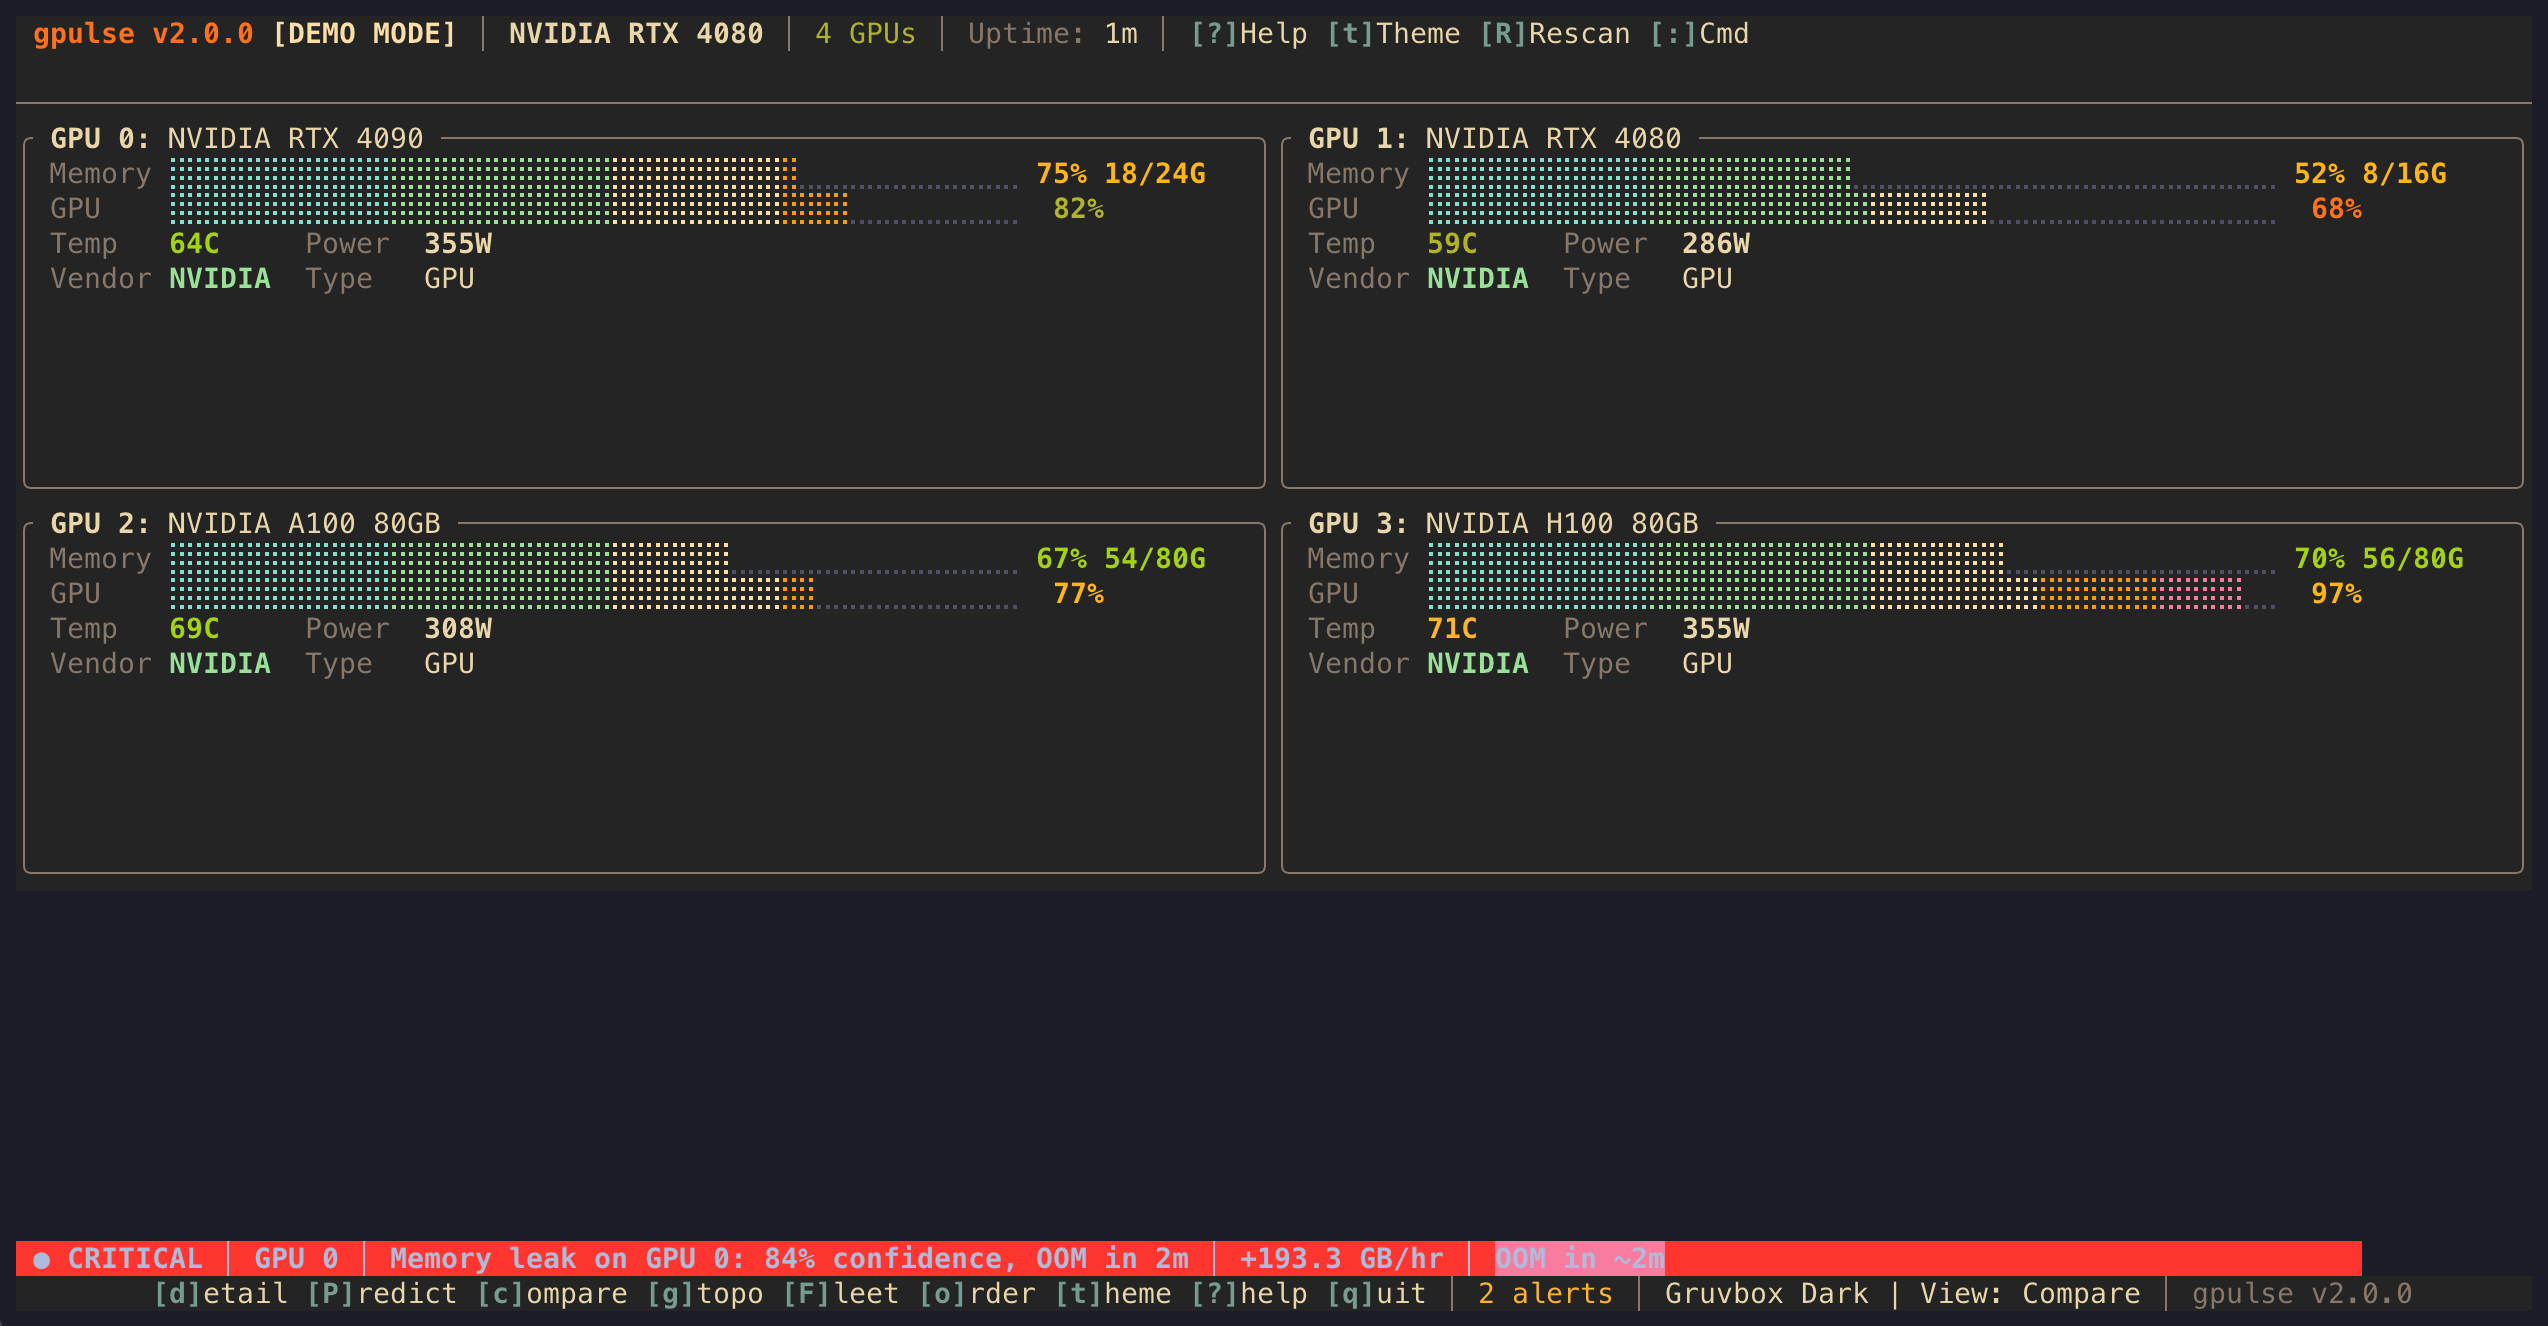
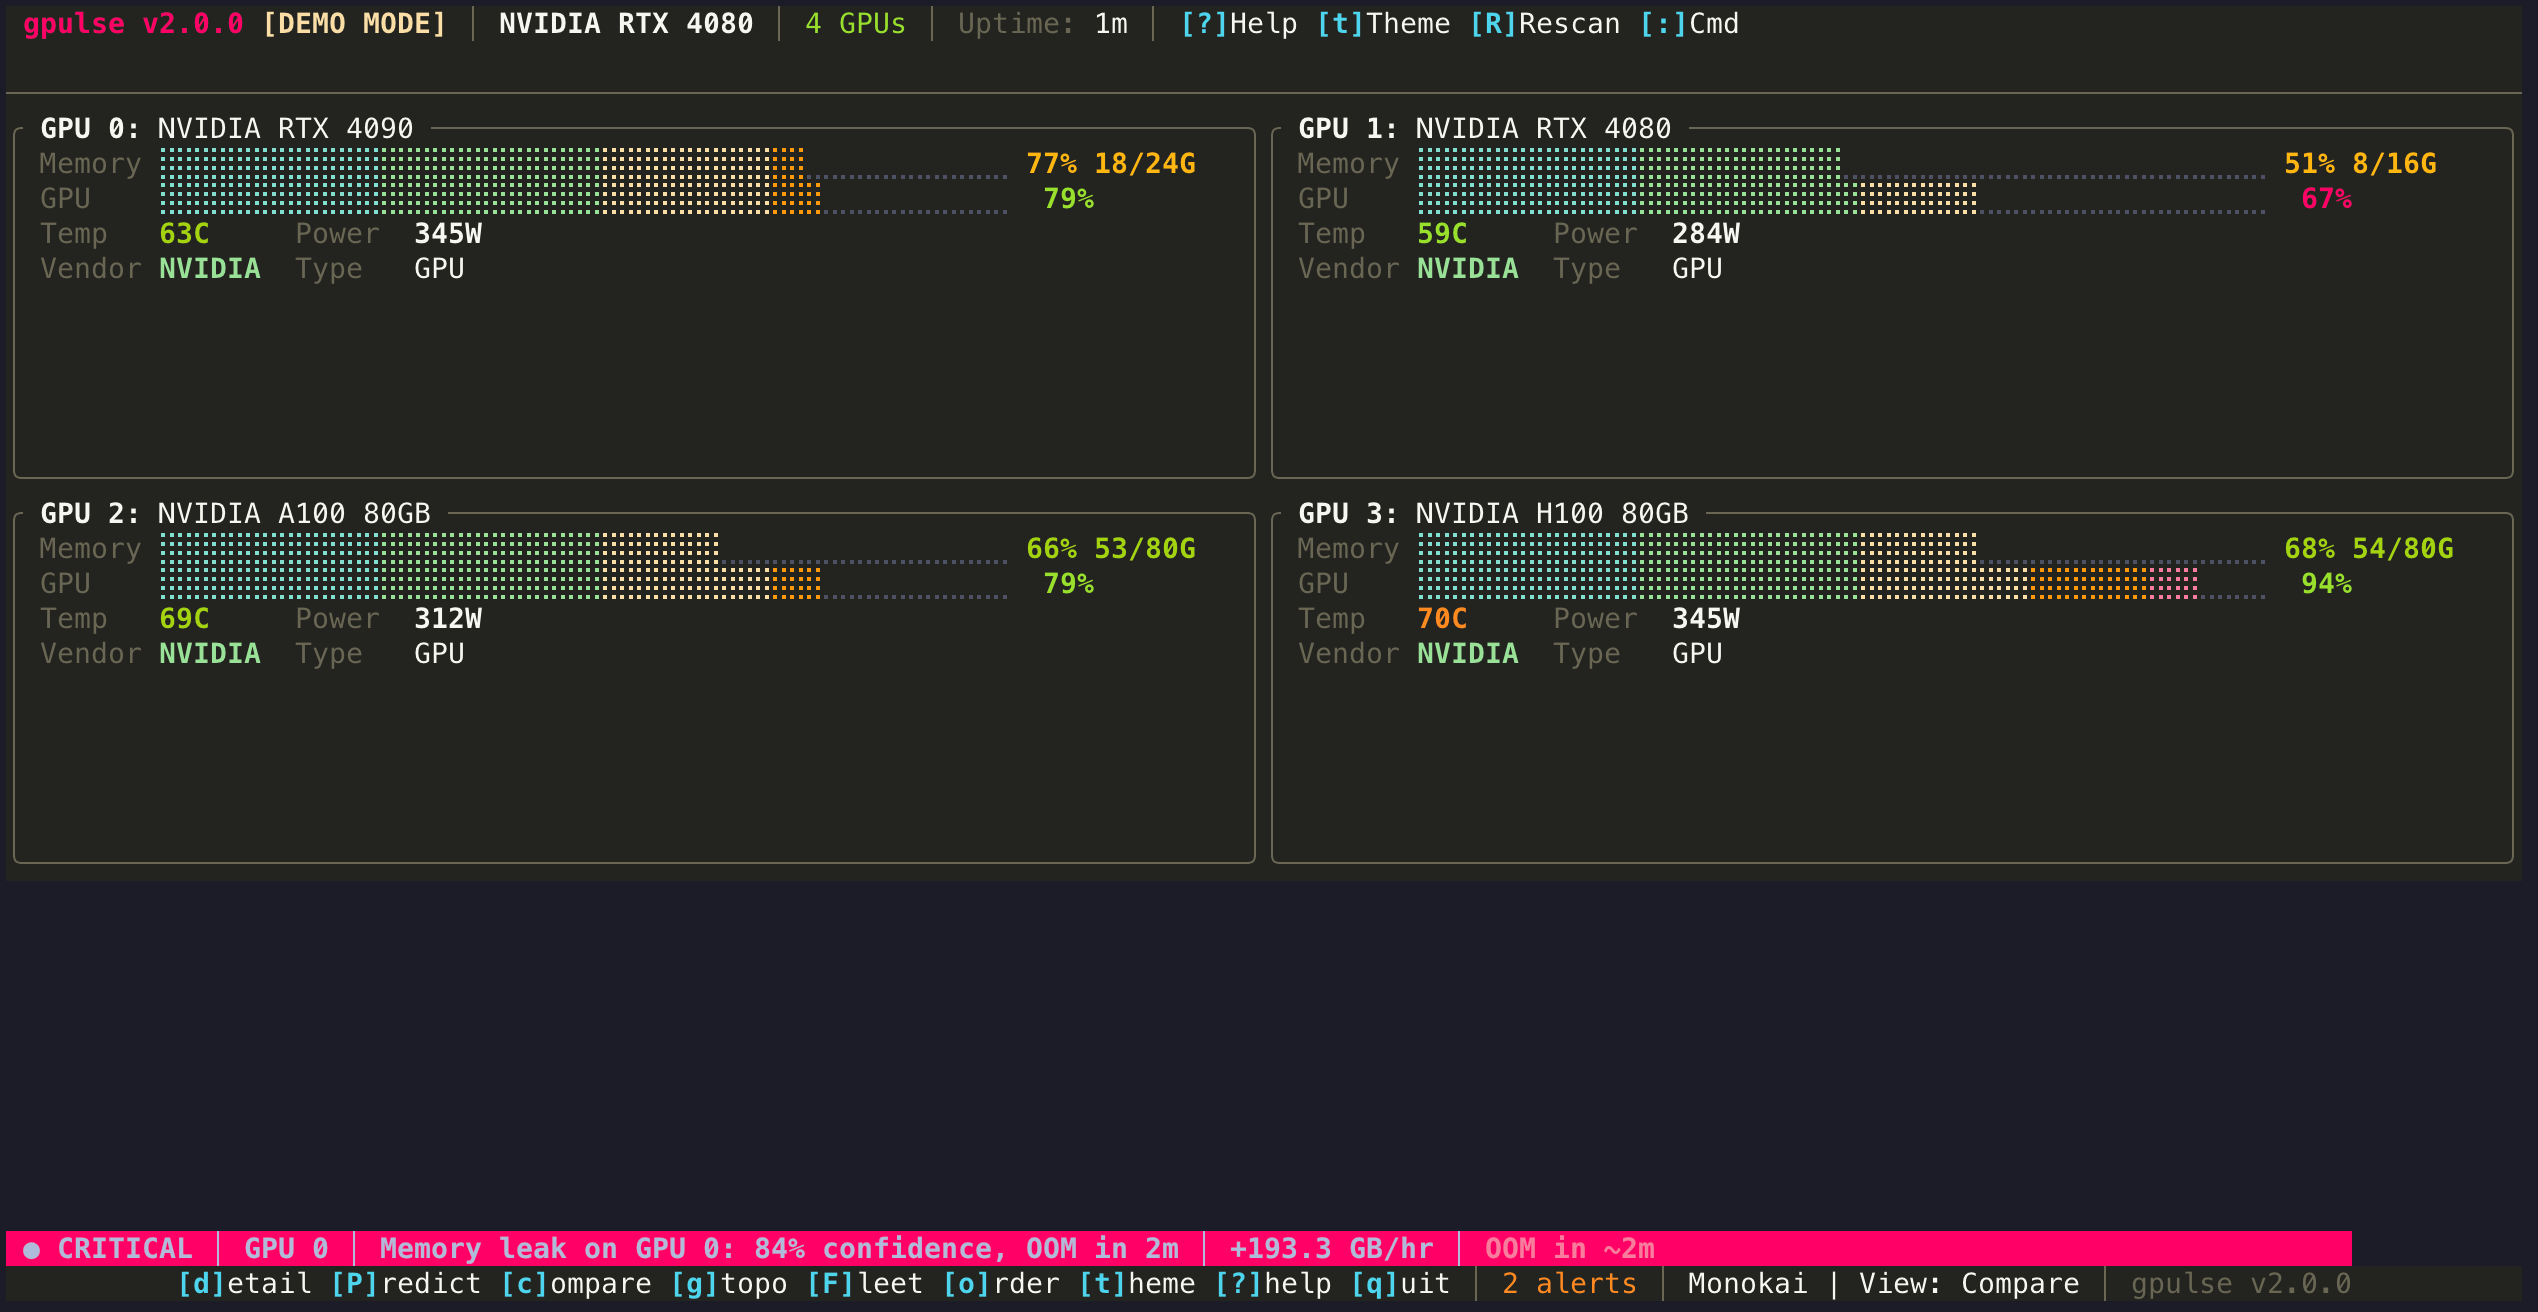
polish: comprehensive text review + new Monokai screenshots
Technical writer review of all page copy:
- Hero: tightened subtitle, added non-breaking spaces, clearer badge text
- Features: more specific descriptions with vendor API names
- Screenshots: detailed alt text for SEO/accessibility, better captions
- How It Works: added subtitle, showed actual keybindings in step 3
- Pricing: clearer "no account required" copy
- Final CTA: "Stop guessing. Start monitoring." + terminal before button
- Footer: updated brand description

Updated all 5 screenshots to Monokai theme (user's Ghostty captures):
- grid-4gpu.png: CRITICAL state with %UTL data
- detail-gpu0-critical.png: full process table
- compare-4gpu.png: 2x2 grid
- predict-leak-detected.png: real leak analysis data
- topology.png: GPU interconnect

diff --git a/public/color-compare.html b/public/color-compare.html
@@ -1,0 +1,167 @@
+<!DOCTYPE html>
+<html lang="en">
+<head>
+  <meta charset="UTF-8">
+  <meta name="viewport" content="width=device-width, initial-scale=1.0">
+  <title>gpulse — Accent Color Comparison</title>
+  <link href="https://fonts.googleapis.com/css2?family=Inter:wght@400;500;600;700;800&family=JetBrains+Mono:wght@400;500;600;700&display=swap" rel="stylesheet">
+  <style>
+    * { margin: 0; padding: 0; box-sizing: border-box; }
+    body { background: #0a0a0b; color: #fff; font-family: 'Inter', system-ui, sans-serif; }
+    .grid { display: grid; grid-template-columns: 1fr 1fr; gap: 2px; }
+    .variant { padding: 48px 32px; display: flex; flex-direction: column; align-items: center; border: 1px solid #262630; position: relative; }
+    .label { position: absolute; top: 16px; left: 16px; font-family: 'JetBrains Mono', monospace; font-size: 14px; padding: 4px 12px; border-radius: 9999px; font-weight: 600; }
+    .badge { font-family: 'JetBrains Mono', monospace; font-size: 13px; padding: 6px 16px; border-radius: 9999px; border: 1px solid; margin-bottom: 24px; }
+    h1 { font-size: 42px; font-weight: 800; text-align: center; line-height: 1.1; letter-spacing: -0.02em; margin-bottom: 16px; }
+    .subtitle { color: #a0a0b0; text-align: center; font-size: 15px; line-height: 1.6; max-width: 400px; margin-bottom: 24px; }
+    .buttons { display: flex; gap: 12px; margin-bottom: 32px; }
+    .btn-primary { padding: 10px 24px; border-radius: 12px; font-weight: 600; font-size: 14px; border: none; cursor: pointer; }
+    .btn-secondary { padding: 10px 24px; border-radius: 12px; font-weight: 600; font-size: 14px; border: 1px solid #262630; background: transparent; color: #fff; cursor: pointer; }
+    .terminal { background: #0d0d0d; border: 1px solid #262630; border-radius: 12px; width: 100%; max-width: 420px; overflow: hidden; }
+    .terminal-bar { background: #1a1a1a; padding: 10px 14px; display: flex; align-items: center; gap: 6px; border-bottom: 1px solid #262630; }
+    .dot { width: 10px; height: 10px; border-radius: 50%; }
+    .terminal-body { padding: 16px; font-family: 'JetBrains Mono', monospace; font-size: 13px; }
+    .terminal-body span { opacity: 0.5; }
+    .metrics { display: flex; gap: 24px; margin-top: 24px; text-align: center; }
+    .metric-value { font-size: 28px; font-weight: 700; font-family: 'JetBrains Mono', monospace; }
+    .metric-label { font-size: 11px; color: #a0a0b0; text-transform: uppercase; letter-spacing: 0.05em; margin-top: 4px; }
+    .vote { margin-top: 16px; font-size: 24px; cursor: pointer; padding: 8px 24px; border-radius: 12px; border: 2px solid #262630; background: transparent; color: #fff; transition: all 0.2s; }
+    .vote:hover { transform: scale(1.1); }
+    h2 { text-align: center; padding: 32px; font-size: 28px; grid-column: span 2; color: #a0a0b0; }
+  </style>
+</head>
+<body>
+  <h2 style="color: #fff; padding-top: 48px;">Pick your accent color for gpulse.ai</h2>
+
+  <div class="grid">
+    <!-- A: Electric Green -->
+    <div class="variant">
+      <div class="label" style="background: #10b98120; color: #10b981; border: 1px solid #10b98140;">A — Electric Green</div>
+      <div class="badge" style="color: #10b981; border-color: #10b98140; background: #10b98110;">v2.0.0 — Now with OOM Prediction</div>
+      <h1>Never lose a training run<br/><span style="color: #10b981;">to OOM.</span></h1>
+      <p class="subtitle">Real-time GPU monitoring with predictive leak detection. Apple Silicon, NVIDIA, AMD, Intel — one tool, every GPU.</p>
+      <div class="buttons">
+        <button class="btn-primary" style="background: #10b981; color: #0a0a0b;">Download Free</button>
+        <button class="btn-secondary" style="border-color: #10b98140;">View Docs</button>
+      </div>
+      <div class="terminal">
+        <div class="terminal-bar"><div class="dot" style="background:#ff5f57"></div><div class="dot" style="background:#febc2e"></div><div class="dot" style="background:#28c840"></div></div>
+        <div class="terminal-body"><span>$</span> brew install kkirubakaran/gpulse/gpulse</div>
+      </div>
+      <div class="metrics">
+        <div><div class="metric-value" style="color: #10b981;">15</div><div class="metric-label">Themes</div></div>
+        <div><div class="metric-value" style="color: #10b981;">7</div><div class="metric-label">View Modes</div></div>
+        <div><div class="metric-value" style="color: #10b981;">4</div><div class="metric-label">GPU Vendors</div></div>
+      </div>
+    </div>
+
+    <!-- B: Amber/Gold -->
+    <div class="variant">
+      <div class="label" style="background: #f59e0b20; color: #f59e0b; border: 1px solid #f59e0b40;">B — Amber / Gold</div>
+      <div class="badge" style="color: #f59e0b; border-color: #f59e0b40; background: #f59e0b10;">v2.0.0 — Now with OOM Prediction</div>
+      <h1>Never lose a training run<br/><span style="color: #f59e0b;">to OOM.</span></h1>
+      <p class="subtitle">Real-time GPU monitoring with predictive leak detection. Apple Silicon, NVIDIA, AMD, Intel — one tool, every GPU.</p>
+      <div class="buttons">
+        <button class="btn-primary" style="background: #f59e0b; color: #0a0a0b;">Download Free</button>
+        <button class="btn-secondary" style="border-color: #f59e0b40;">View Docs</button>
+      </div>
+      <div class="terminal">
+        <div class="terminal-bar"><div class="dot" style="background:#ff5f57"></div><div class="dot" style="background:#febc2e"></div><div class="dot" style="background:#28c840"></div></div>
+        <div class="terminal-body"><span>$</span> brew install kkirubakaran/gpulse/gpulse</div>
+      </div>
+      <div class="metrics">
+        <div><div class="metric-value" style="color: #f59e0b;">15</div><div class="metric-label">Themes</div></div>
+        <div><div class="metric-value" style="color: #f59e0b;">7</div><div class="metric-label">View Modes</div></div>
+        <div><div class="metric-value" style="color: #f59e0b;">4</div><div class="metric-label">GPU Vendors</div></div>
+      </div>
+    </div>
+
+    <!-- C: Coral/Orange -->
+    <div class="variant">
+      <div class="label" style="background: #f9731620; color: #f97316; border: 1px solid #f9731640;">C — Coral / Orange</div>
+      <div class="badge" style="color: #f97316; border-color: #f9731640; background: #f9731610;">v2.0.0 — Now with OOM Prediction</div>
+      <h1>Never lose a training run<br/><span style="color: #f97316;">to OOM.</span></h1>
+      <p class="subtitle">Real-time GPU monitoring with predictive leak detection. Apple Silicon, NVIDIA, AMD, Intel — one tool, every GPU.</p>
+      <div class="buttons">
+        <button class="btn-primary" style="background: #f97316; color: #0a0a0b;">Download Free</button>
+        <button class="btn-secondary" style="border-color: #f9731640;">View Docs</button>
+      </div>
+      <div class="terminal">
+        <div class="terminal-bar"><div class="dot" style="background:#ff5f57"></div><div class="dot" style="background:#febc2e"></div><div class="dot" style="background:#28c840"></div></div>
+        <div class="terminal-body"><span>$</span> brew install kkirubakaran/gpulse/gpulse</div>
+      </div>
+      <div class="metrics">
+        <div><div class="metric-value" style="color: #f97316;">15</div><div class="metric-label">Themes</div></div>
+        <div><div class="metric-value" style="color: #f97316;">7</div><div class="metric-label">View Modes</div></div>
+        <div><div class="metric-value" style="color: #f97316;">4</div><div class="metric-label">GPU Vendors</div></div>
+      </div>
+    </div>
+
+    <!-- D: Violet -->
+    <div class="variant">
+      <div class="label" style="background: #8b5cf620; color: #8b5cf6; border: 1px solid #8b5cf640;">D — Violet</div>
+      <div class="badge" style="color: #8b5cf6; border-color: #8b5cf640; background: #8b5cf610;">v2.0.0 — Now with OOM Prediction</div>
+      <h1>Never lose a training run<br/><span style="color: #8b5cf6;">to OOM.</span></h1>
+      <p class="subtitle">Real-time GPU monitoring with predictive leak detection. Apple Silicon, NVIDIA, AMD, Intel — one tool, every GPU.</p>
+      <div class="buttons">
+        <button class="btn-primary" style="background: #8b5cf6; color: #fff;">Download Free</button>
+        <button class="btn-secondary" style="border-color: #8b5cf640;">View Docs</button>
+      </div>
+      <div class="terminal">
+        <div class="terminal-bar"><div class="dot" style="background:#ff5f57"></div><div class="dot" style="background:#febc2e"></div><div class="dot" style="background:#28c840"></div></div>
+        <div class="terminal-body"><span>$</span> brew install kkirubakaran/gpulse/gpulse</div>
+      </div>
+      <div class="metrics">
+        <div><div class="metric-value" style="color: #8b5cf6;">15</div><div class="metric-label">Themes</div></div>
+        <div><div class="metric-value" style="color: #8b5cf6;">7</div><div class="metric-label">View Modes</div></div>
+        <div><div class="metric-value" style="color: #8b5cf6;">4</div><div class="metric-label">GPU Vendors</div></div>
+      </div>
+    </div>
+  </div>
+
+    <!-- E: Rose / Hot Pink -->
+    <div class="variant">
+      <div class="label" style="background: #e11d4820; color: #e11d48; border: 1px solid #e11d4840;">E — Rose / Hot Pink</div>
+      <div class="badge" style="color: #e11d48; border-color: #e11d4840; background: #e11d4810;">v2.0.0 — Now with OOM Prediction</div>
+      <h1>Never lose a training run<br/><span style="color: #e11d48;">to OOM.</span></h1>
+      <p class="subtitle">Real-time GPU monitoring with predictive leak detection. Apple Silicon, NVIDIA, AMD, Intel — one tool, every GPU.</p>
+      <div class="buttons">
+        <button class="btn-primary" style="background: #e11d48; color: #fff;">Download Free</button>
+        <button class="btn-secondary" style="border-color: #e11d4840;">View Docs</button>
+      </div>
+      <div class="terminal">
+        <div class="terminal-bar"><div class="dot" style="background:#ff5f57"></div><div class="dot" style="background:#febc2e"></div><div class="dot" style="background:#28c840"></div></div>
+        <div class="terminal-body"><span>$</span> brew install kkirubakaran/gpulse/gpulse</div>
+      </div>
+      <div class="metrics">
+        <div><div class="metric-value" style="color: #e11d48;">15</div><div class="metric-label">Themes</div></div>
+        <div><div class="metric-value" style="color: #e11d48;">7</div><div class="metric-label">View Modes</div></div>
+        <div><div class="metric-value" style="color: #e11d48;">4</div><div class="metric-label">GPU Vendors</div></div>
+      </div>
+    </div>
+
+    <!-- F: Teal -->
+    <div class="variant">
+      <div class="label" style="background: #14b8a620; color: #14b8a6; border: 1px solid #14b8a640;">F — Teal</div>
+      <div class="badge" style="color: #14b8a6; border-color: #14b8a640; background: #14b8a610;">v2.0.0 — Now with OOM Prediction</div>
+      <h1>Never lose a training run<br/><span style="color: #14b8a6;">to OOM.</span></h1>
+      <p class="subtitle">Real-time GPU monitoring with predictive leak detection. Apple Silicon, NVIDIA, AMD, Intel — one tool, every GPU.</p>
+      <div class="buttons">
+        <button class="btn-primary" style="background: #14b8a6; color: #0a0a0b;">Download Free</button>
+        <button class="btn-secondary" style="border-color: #14b8a640;">View Docs</button>
+      </div>
+      <div class="terminal">
+        <div class="terminal-bar"><div class="dot" style="background:#ff5f57"></div><div class="dot" style="background:#febc2e"></div><div class="dot" style="background:#28c840"></div></div>
+        <div class="terminal-body"><span>$</span> brew install kkirubakaran/gpulse/gpulse</div>
+      </div>
+      <div class="metrics">
+        <div><div class="metric-value" style="color: #14b8a6;">15</div><div class="metric-label">Themes</div></div>
+        <div><div class="metric-value" style="color: #14b8a6;">7</div><div class="metric-label">View Modes</div></div>
+        <div><div class="metric-value" style="color: #14b8a6;">4</div><div class="metric-label">GPU Vendors</div></div>
+      </div>
+    </div>
+  </div>
+
+  <h2 style="padding-bottom: 48px; font-size: 18px;">Scroll to see all 6 options. UI/UX Pro Max recommends <strong style="color: #22c55e;">Green</strong> for dev tools.</h2>
+</body>
+</html>
